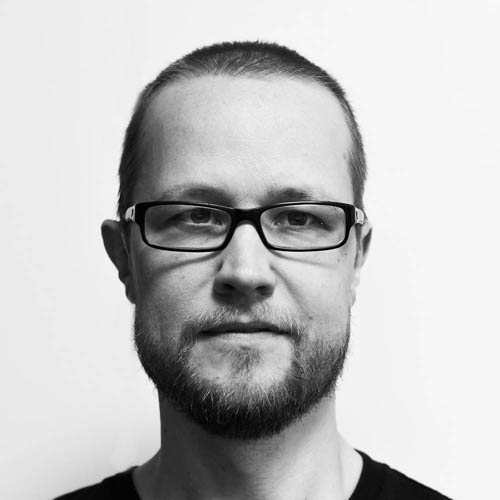
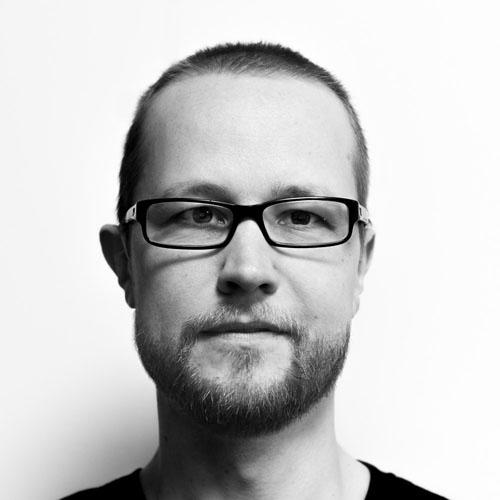
Add face-fader

diff --git a/docs/index.html b/docs/index.html
@@ -54,8 +54,8 @@ open-source-projects:
     <div class="row">
       <div class="col-lg-3 text-center">
         <p class="face-fader">
-          <img src="assets/images/wouter.jpg" class="img-fluid" alt="Foto van eigenaar" style="border-radius: 50%; padding: 1rem; box-shadow: 0 0 5rem rgba(0, 0, 0, .1);" />
           <img src="assets/images/wouter-beard.jpg" class="img-fluid face-with-beard" alt="Foto van eigenaar" style="border-radius: 50%; padding: 1rem; box-shadow: 0 0 5rem rgba(0, 0, 0, .1);" />
+          <img src="assets/images/wouter.jpg" class="img-fluid" alt="Foto van eigenaar" style="border-radius: 50%; padding: 1rem; box-shadow: 0 0 5rem rgba(0, 0, 0, .1);" />
         </p>
         <p><a href="https://mvp.microsoft.com/en-us/PublicProfile/5003570?fullName=Wouter%20Huysentruit" target="_blank"><img src="assets/images/logos/mvp-banner.png" alt="MVP banner" style="height: 4rem;"></a></p>
       </div>

diff --git a/docs/_sass/face-fader.scss b/docs/_sass/face-fader.scss
@@ -1,10 +1,9 @@
 .face-fader {
   position: relative;
 
-  img:last-of-type {
+  img.face-with-beard {
     position: absolute;
     top: 0;
-    left: 0;
     opacity: 0;
   }
 }
